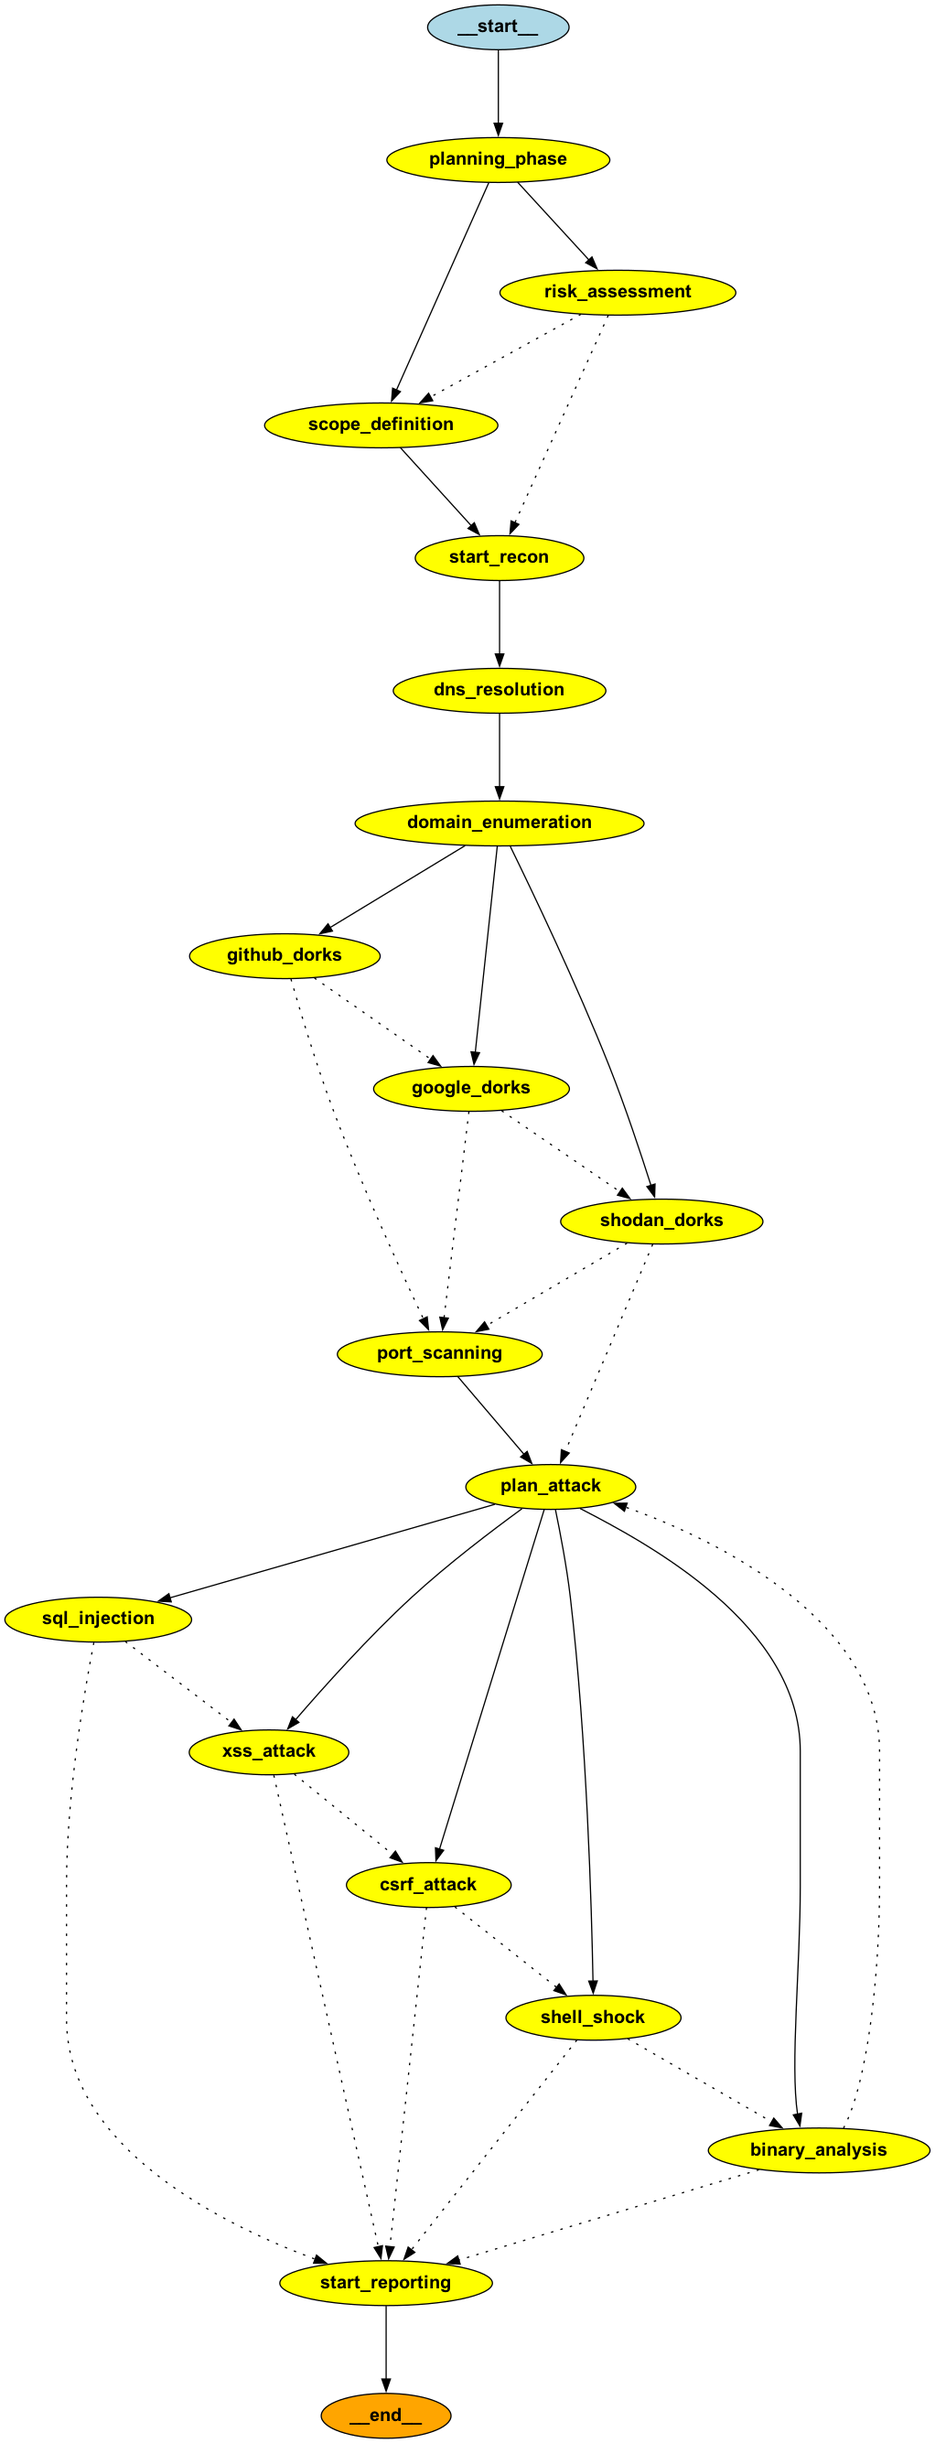
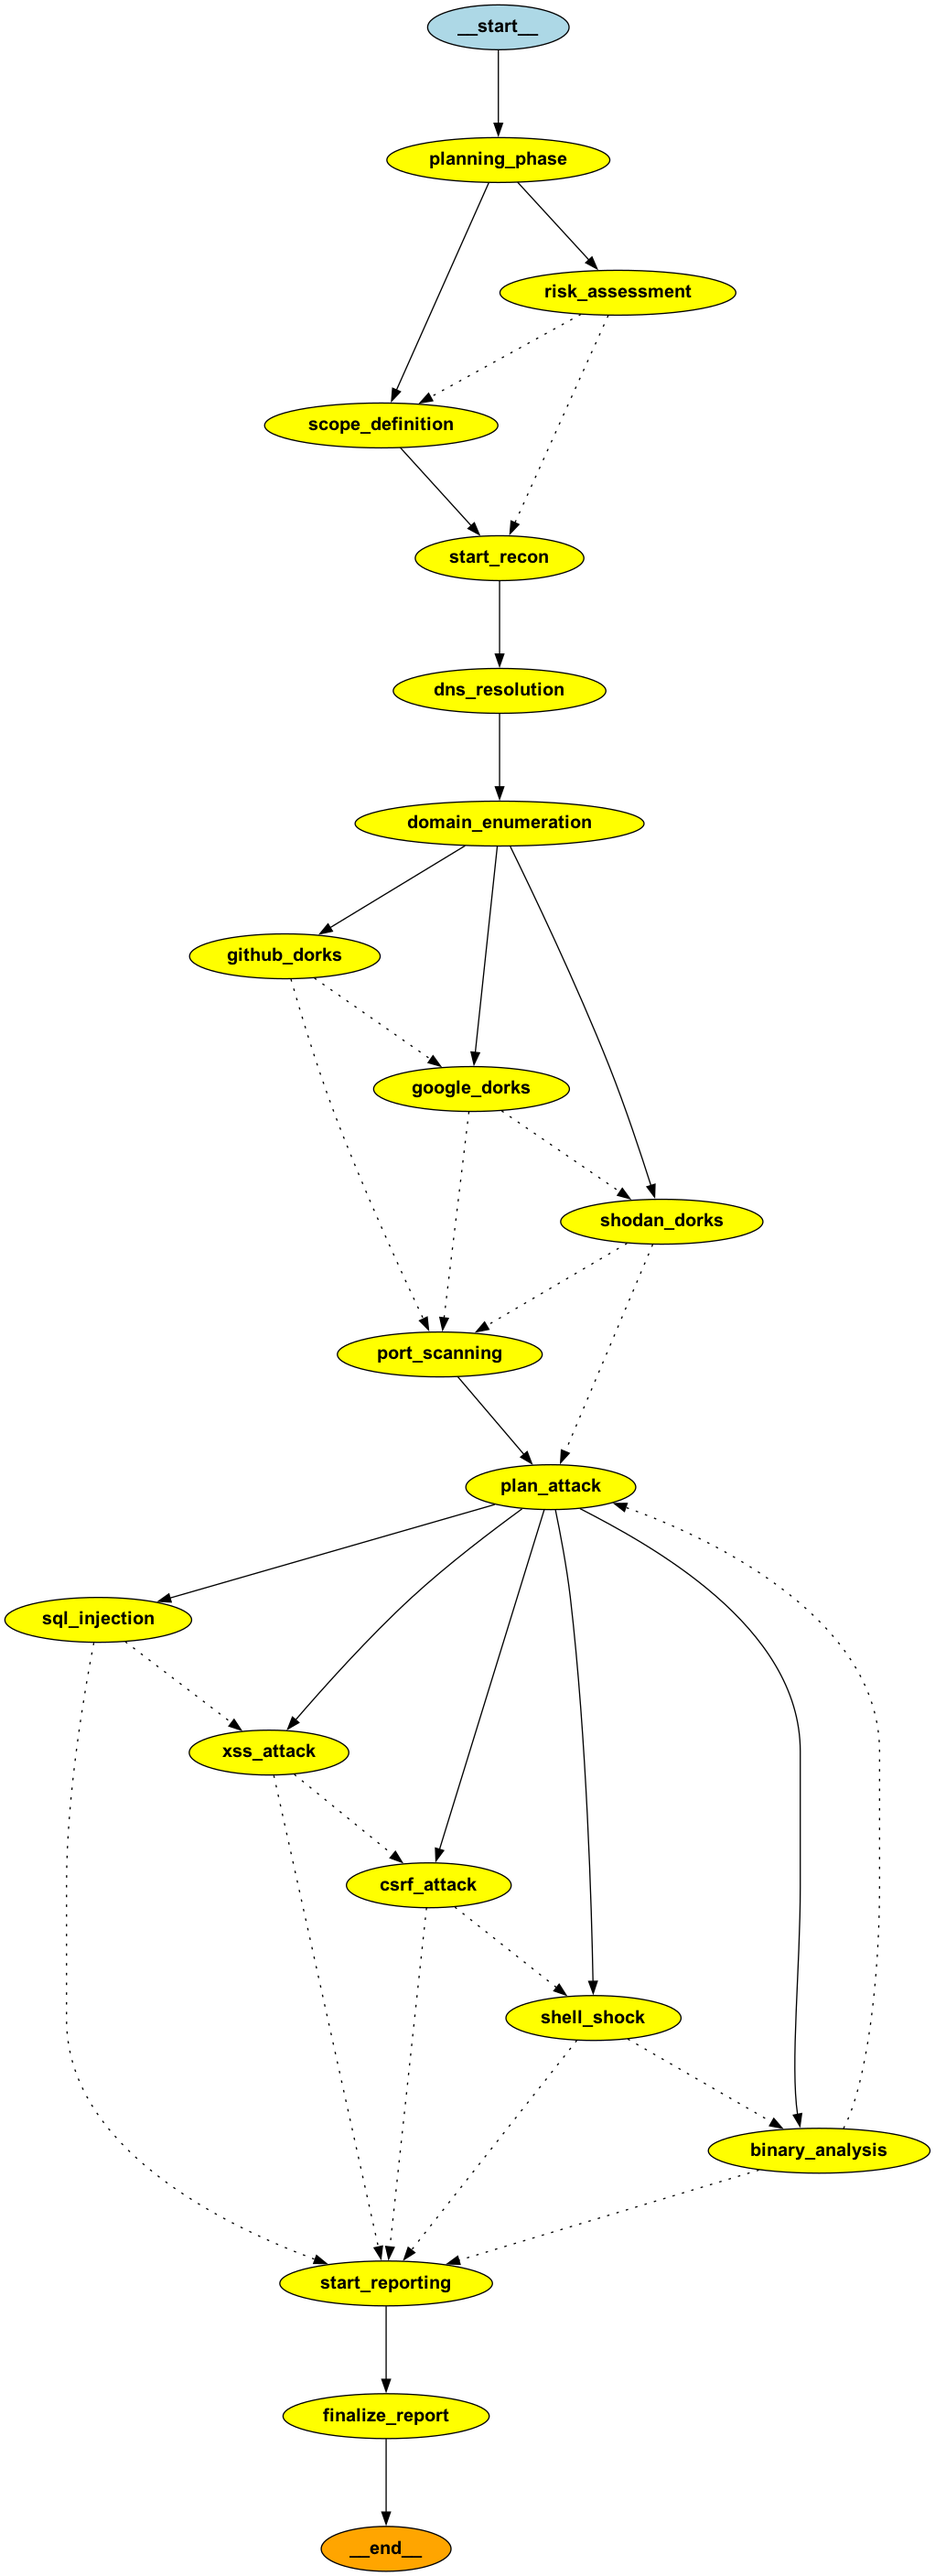
framework skeleton

diff --git a/src/main/graph.py b/src/main/graph.py
@@ -57,7 +57,7 @@ def create_workflow() -> StateGraph:
     
     # Reporting Phase Nodes
     workflow.add_node("start_reporting", initialized_agents["reporter"]._start_reporting_)
-    
+    workflow.add_node("finalize_report", initialized_agents["reporter"]._finalize_report_)
     # Add edges between phases
     # Planning Phase edges - Parallel processing
     workflow.add_edge("planning_phase", "risk_assessment")
@@ -140,7 +140,9 @@ def create_workflow() -> StateGraph:
     workflow.add_edge("binary_analysis", "start_reporting")
     
     # Reporting Phase edges
-    workflow.add_edge("start_reporting", END)
+    workflow.add_edge("start_reporting", "finalize_report")
+    
+    workflow.add_edge("finalize_report", END)
     
     # Set entry point
     workflow.set_entry_point("planning_phase")

diff --git a/src/main/agents/reporting_phase/reporter.py b/src/main/agents/reporting_phase/reporter.py
@@ -27,6 +27,9 @@ class Reporter:
     async def _start_reporting_(self, state: PenTestState):
         pass
     
+    async def _finalize_report_(self, state: PenTestState):
+        pass
+    
     def _create_graph_(self) -> StateGraph:
         graph = StateGraph(PenTestState)
         graph.add_node("start", self._start_reporting_)

diff --git a/README.md b/README.md
@@ -1,5 +1,4 @@
 ## Multi Agent Framework for Automated Pentesting
 
-
 ## Workflow Diagram
 ![Graph](pentest.png)
